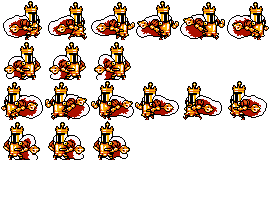
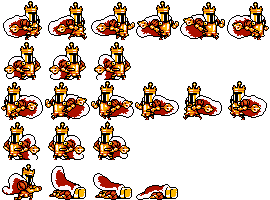
player death animation

Changed region(s): [[0.0, 0.81, 0.3259, 1.0], [0.3259, 0.87, 0.6815, 1.0]]

diff --git a/Projecte/Player.cpp b/Projecte/Player.cpp
@@ -8,24 +8,26 @@
 #define JUMP_ANGLE_STEP 4
 #define JUMP_HEIGHT 72
 
+constexpr int DEATH = 4;
+
 void Player::init(const glm::ivec2 &tileMapPos, ShaderProgram &shaderProgram)
 {
 	bJumping = false;
-    texProgram = &shaderProgram;
+	texProgram = &shaderProgram;
 	spritesheet.loadFromFile("images/main_player.png", TEXTURE_PIXEL_FORMAT_RGBA);
 
-	sprite = AnimatedSprite::createSprite(glm::ivec2(32, 32), glm::vec2(1.0f/6.0f, 1.0f/5.0f), &spritesheet, &shaderProgram);
-	sprite->setNumberAnimations(4);
+	sprite = AnimatedSprite::createSprite(glm::ivec2(32, 32), glm::vec2(1.0f / 6.0f, 1.0f / 5.0f), &spritesheet, &shaderProgram);
+	sprite->setNumberAnimations(5);
 
 	sprite->setAnimationSpeed(STAND_LEFT, 6);
-	sprite->addKeyframe(STAND_LEFT, glm::vec2(0.0f / 6.0f,  3.0f/5.0f));
-	sprite->addKeyframe(STAND_LEFT, glm::vec2(1.0f / 6.0f,  3.0f/5.0f));
-	sprite->addKeyframe(STAND_LEFT, glm::vec2(2.0f / 6.0f,  3.0f/5.0f));
+	sprite->addKeyframe(STAND_LEFT, glm::vec2(0.0f / 6.0f, 3.0f / 5.0f));
+	sprite->addKeyframe(STAND_LEFT, glm::vec2(1.0f / 6.0f, 3.0f / 5.0f));
+	sprite->addKeyframe(STAND_LEFT, glm::vec2(2.0f / 6.0f, 3.0f / 5.0f));
 
 	sprite->setAnimationSpeed(STAND_RIGHT, 6);
-	sprite->addKeyframe(STAND_RIGHT, glm::vec2(0.0f / 6.0f,  1.0f/5.0f));
-	sprite->addKeyframe(STAND_RIGHT, glm::vec2(1.0f / 6.0f,  1.0f/5.0f));
-	sprite->addKeyframe(STAND_RIGHT, glm::vec2(2.0f / 6.0f,  1.0f/5.0f));
+	sprite->addKeyframe(STAND_RIGHT, glm::vec2(0.0f / 6.0f, 1.0f / 5.0f));
+	sprite->addKeyframe(STAND_RIGHT, glm::vec2(1.0f / 6.0f, 1.0f / 5.0f));
+	sprite->addKeyframe(STAND_RIGHT, glm::vec2(2.0f / 6.0f, 1.0f / 5.0f));
 
 	sprite->setAnimationSpeed(MOVE_LEFT, 8);
 	sprite->addKeyframe(MOVE_LEFT, glm::vec2(0.0f / 6.0f, 2.0f / 5.0f));
@@ -43,19 +45,34 @@ void Player::init(const glm::ivec2 &tileMapPos, ShaderProgram &shaderProgram)
 	sprite->addKeyframe(MOVE_RIGHT, glm::vec2(4.0f / 6.0f, 0.0f));
 	sprite->addKeyframe(MOVE_RIGHT, glm::vec2(5.0f / 6.0f, 0.0f));
 
+	sprite->setAnimationSpeed(DEATH, 2);
+	sprite->addKeyframe(DEATH, glm::vec2(0.0f / 6.0f, 4.0f / 5.0f));
+	sprite->addKeyframe(DEATH, glm::vec2(1.0f / 6.0f, 4.0f / 5.0f));
+	sprite->addKeyframe(DEATH, glm::vec2(2.0f / 6.0f, 4.0f / 5.0f));
+	sprite->addKeyframe(DEATH, glm::vec2(3.0f / 6.0f, 4.0f / 5.0f));
+
+	deathTotalTime = sprite->computeAnimationTime(DEATH);
+
 	sprite->changeAnimation(0);
 	tileMapDispl = tileMapPos;
-    sprite->setPosition(glm::vec2(float(tileMapDispl.x + position.x), float(tileMapDispl.y + position.y)));
+	sprite->setPosition(glm::vec2(float(tileMapDispl.x + position.x), float(tileMapDispl.y + position.y)));
 }
 
 void Player::update(int deltaTime)
 {
-    if (remainingImmunityMilliseconds > 0)
-    {
-        remainingImmunityMilliseconds -= deltaTime;
-    }
+	if (remainingImmunityMilliseconds > 0)
+	{
+		remainingImmunityMilliseconds -= deltaTime;
+	}
 
 	sprite->update(deltaTime);
+
+	if (dying)
+	{
+		deathCurrentTime += deltaTime;
+		return;
+	}
+
 	if (Game::instance().getSpecialKey(GLUT_KEY_LEFT))
 	{
 		if (sprite->animation() != MOVE_LEFT)
@@ -97,7 +114,7 @@ void Player::update(int deltaTime)
 		else
 		{
 			position.y = int(startY - JUMP_HEIGHT * sin(3.14159f * jumpAngle / 180.f));
-			if(jumpAngle > 90)
+			if (jumpAngle > 90)
 			{
 				bJumping = !map->collisionMoveDown(position, glm::ivec2(24, 32), &position.y, true);
 			}
@@ -110,11 +127,11 @@ void Player::update(int deltaTime)
 	else
 	{
 		position.y += FALL_STEP;
-        if (map->collisionSpikes(position, glm::ivec2(24, 32)) and not isImmune())
-        {
-            setLives(getLives() - 1);
-            makeImmune(PLAYER_IMMUNITY_MS);
-        }
+		if (map->collisionSpikes(position, glm::ivec2(24, 32)) and not isImmune())
+		{
+			setLives(getLives() - 1);
+			makeImmune(PLAYER_IMMUNITY_MS);
+		}
 
 		if (map->collisionMoveDown(position, glm::ivec2(24, 32), &position.y, true))
 		{
@@ -132,25 +149,33 @@ void Player::update(int deltaTime)
 
 int Player::getLives() const
 {
-    return lives;
+	return lives;
 }
 
 bool Player::isImmune() const
 {
-    return remainingImmunityMilliseconds > 0 || invulnerability;
+	return remainingImmunityMilliseconds > 0 || invulnerability || dying;
 }
 
 void Player::setLives(int lives)
 {
-    if (lives >= this->lives or remainingImmunityMilliseconds <= 0)
-    {
-        this->lives = max(min(lives, MAX_LIVES), 0);
-    }
+	if (lives >= this->lives or remainingImmunityMilliseconds <= 0)
+	{
+		this->lives = max(min(lives, MAX_LIVES), 0);
+
+		if (this->lives == 0)
+		{
+			dying = true;
+			sprite->changeAnimation(DEATH);
+		}
+	}
 }
 
 void Player::makeImmune(int milliseconds)
 {
-    remainingImmunityMilliseconds = milliseconds;
+	if (dying) return;
+	
+	remainingImmunityMilliseconds = milliseconds;
 }
 
 void Player::setInvulnerabilityStatus(bool status)
@@ -158,9 +183,15 @@ void Player::setInvulnerabilityStatus(bool status)
 	invulnerability = status;
 }
 
-void Player::render() const {
-    float val = cos(remainingImmunityMilliseconds/50.f);
-    texProgram->setUniform4f("color", val, val, val, 1.0f);
-    Character::render();
-    texProgram->setUniform4f("color", 1.0f, 1.0f, 1.0f, 1.0f);
+void Player::render() const
+{
+	float val = cos(remainingImmunityMilliseconds / 50.f);
+	texProgram->setUniform4f("color", val, val, val, 1.0f);
+	Character::render();
+	texProgram->setUniform4f("color", 1.0f, 1.0f, 1.0f, 1.0f);
+}
+
+bool Player::finishedDeath() const
+{
+	return dying && deathCurrentTime >= deathTotalTime;
 }

diff --git a/Projecte/Scene.cpp b/Projecte/Scene.cpp
@@ -157,8 +157,20 @@ SceneStatus Scene::update(int deltaTime)
         else
             player->setLives(player->getLives() - 1);
 
-        player->makeImmune(PLAYER_IMMUNITY_MS);
+        if (player->getLives() != 0)
+            player->makeImmune(PLAYER_IMMUNITY_MS);
     }
+
+    if (player->getLives() == 0 && player->finishedDeath())
+    {
+        return SceneStatus::PlayerDead;
+    }
+    else if (player->getLives() == 0)
+    {
+        return SceneStatus::Continue;
+    }
+
+    // Object stuff (key, door, powerups...)
 
     if (!showKey && !isDoorOpen && map->isCompleted())
         showKey = true;
@@ -174,9 +186,6 @@ SceneStatus Scene::update(int deltaTime)
     }
 
     door->update(deltaTime);
-
-    if (player->getLives() == 0)
-        return SceneStatus::PlayerDead;
 
     if (isDoorOpen && player->isColliding(*door))
         return SceneStatus::LevelComplete;

diff --git a/Projecte/Player.h b/Projecte/Player.h
@@ -21,6 +21,7 @@ public:
     bool isImmune() const;
     void render() const override;
 
+    bool finishedDeath() const;
 
 private:
 	bool bJumping;
@@ -30,4 +31,8 @@ private:
     ShaderProgram* texProgram;
 
     bool invulnerability = false;
+    bool dying = false;
+
+    int deathTotalTime = 0;
+    int deathCurrentTime = 0;
 };
